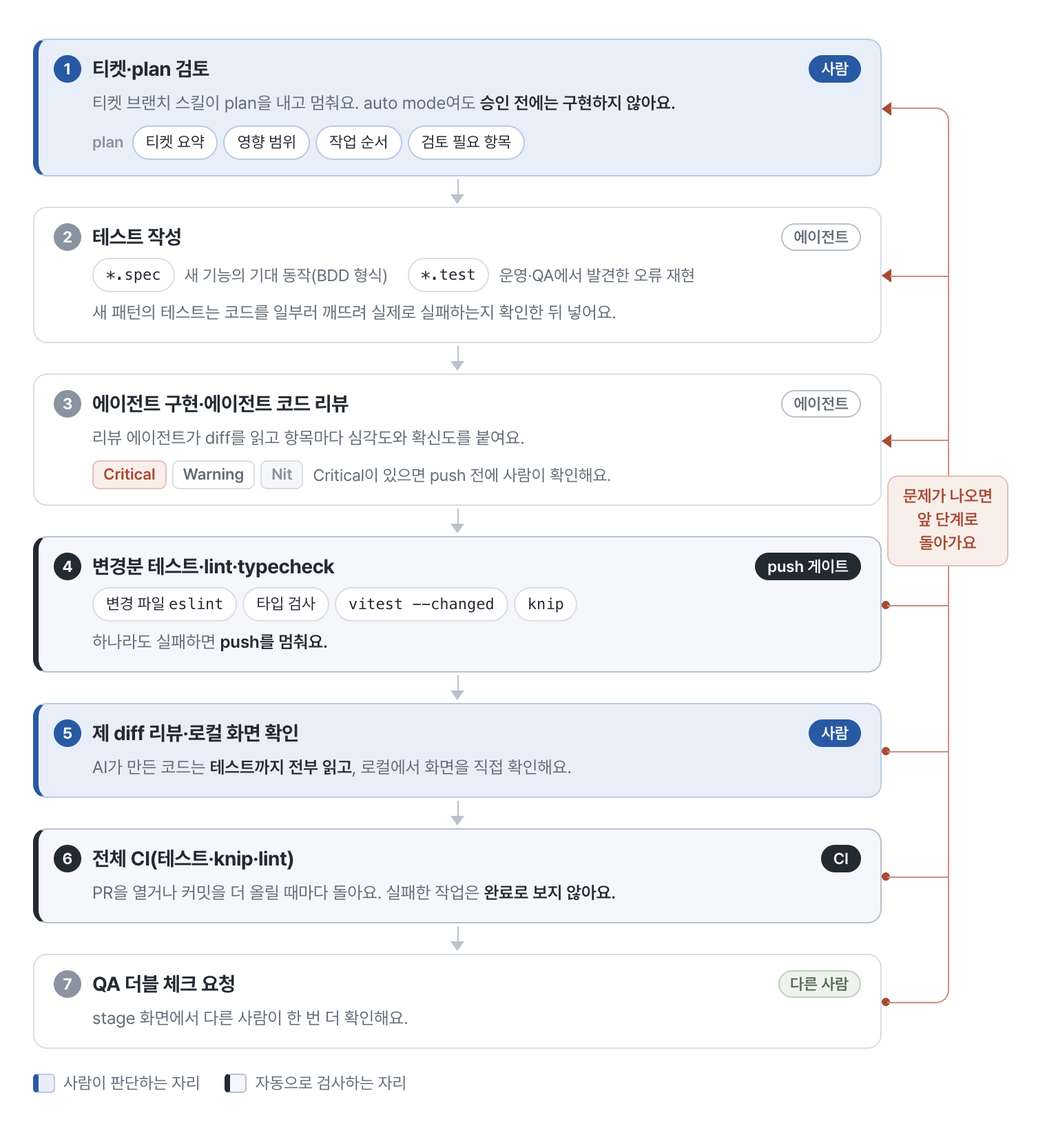
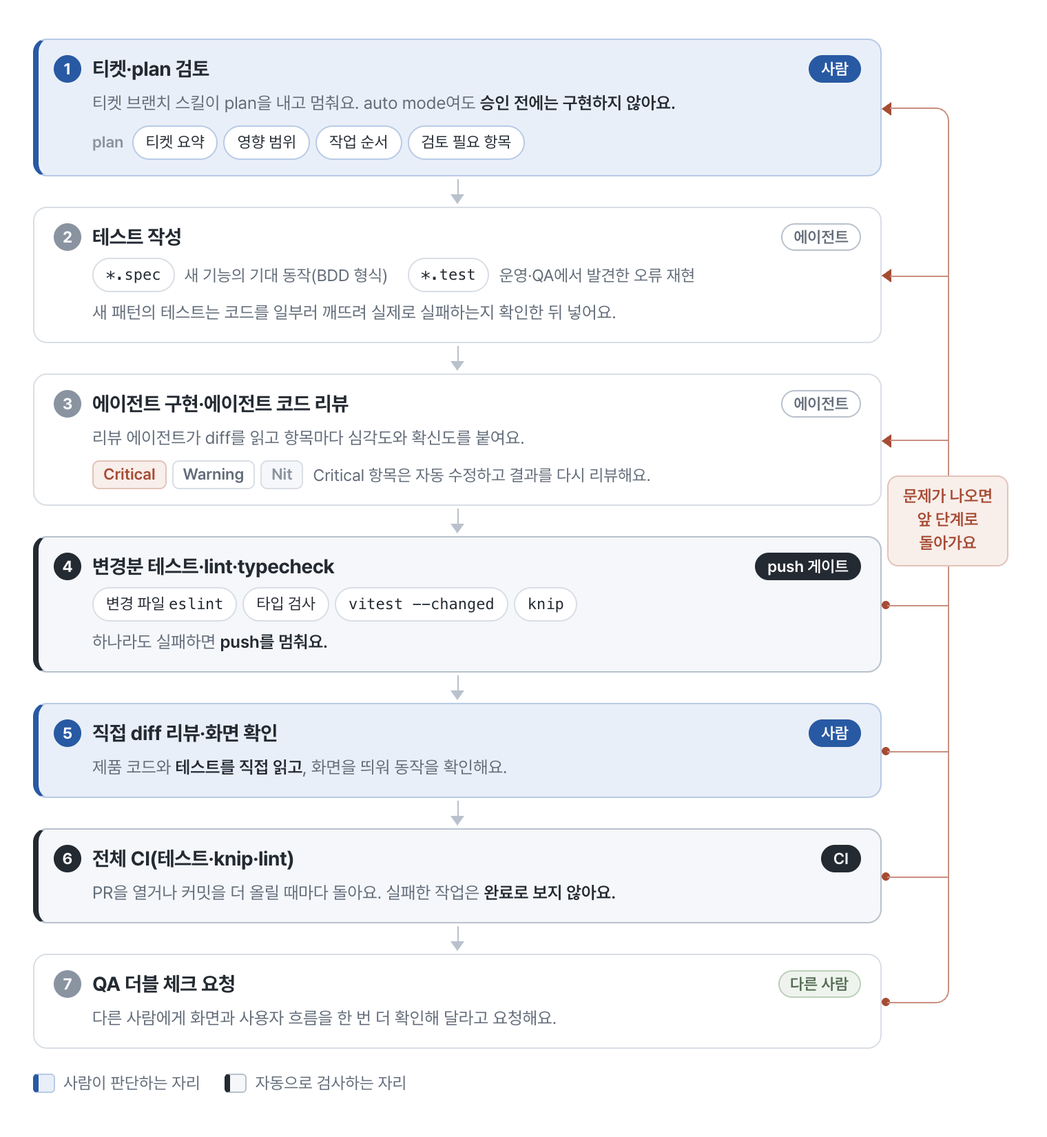
docs: clarify resume project context and simplify blog verification notes

diff --git a/blog/assets/figures/ai-workflow/src/01-flow.html b/blog/assets/figures/ai-workflow/src/01-flow.html
@@ -91,7 +91,7 @@
     <div class="hd"><span class="num">3</span><b>에이전트 구현·에이전트 코드 리뷰</b><span class="who agent">에이전트</span></div>
     <div class="bd">
       <p>리뷰 에이전트가 diff를 읽고 항목마다 심각도와 확신도를 붙여요.</p>
-      <div class="line"><span class="state no">Critical</span><span class="state">Warning</span><span class="state mute">Nit</span><span class="t">Critical이 있으면 push 전에 사람이 확인해요.</span></div>
+      <div class="line"><span class="state no">Critical</span><span class="state">Warning</span><span class="state mute">Nit</span><span class="t">Critical 항목은 자동 수정하고 결과를 다시 리뷰해요.</span></div>
     </div>
   </div>
   <div class="rl"><span class="ah"></span><span class="cn"></span></div>
@@ -112,9 +112,9 @@
 
   <!-- 5 -->
   <div class="step judge">
-    <div class="hd"><span class="num">5</span><b>제 diff 리뷰·로컬 화면 확인</b><span class="who me">사람</span></div>
+    <div class="hd"><span class="num">5</span><b>직접 diff 리뷰·화면 확인</b><span class="who me">사람</span></div>
     <div class="bd">
-      <p>AI가 만든 코드는 <b>테스트까지 전부 읽고</b>, 로컬에서 화면을 직접 확인해요.</p>
+      <p>제품 코드와 <b>테스트를 직접 읽고</b>, 화면을 띄워 동작을 확인해요.</p>
     </div>
   </div>
   <div class="rl"><span class="dot"></span><span class="cn from"></span></div>
@@ -136,7 +136,7 @@
   <div class="step">
     <div class="hd"><span class="num">7</span><b>QA 더블 체크 요청</b><span class="who other">다른 사람</span></div>
     <div class="bd">
-      <p>stage 화면에서 다른 사람이 한 번 더 확인해요.</p>
+      <p>다른 사람에게 화면과 사용자 흐름을 한 번 더 확인해 달라고 요청해요.</p>
     </div>
   </div>
   <div class="rl end"><span class="dot"></span><span class="cn"></span><svg class="arc" viewBox="0 0 11 11"><path d="M10.5 0 V1.5 A9 9 0 0 1 1.5 10.5 H0"/></svg></div>

diff --git a/blog/assets/figures/health-check/src/05-checkout-states.html b/blog/assets/figures/health-check/src/05-checkout-states.html
@@ -76,5 +76,5 @@
   <li><b>맡긴 값</b> · 꺼내면 맞든 틀리든 지워서, 성공한 신청의 주소·검사 선택이 다음 신청에 남지 않게 해요.</li>
 </ul>
 
-<p class="foot">stage에서 신청 폼 → 확인 시트 → 토스페이먼츠 결제창까지 진행한 화면과 결제 흐름 커밋을 바탕으로 그렸어요. 이 화면들을 확인할 때는 stage checkout이 운영 결제 키를 내려줘서 결제는 하지 않았어요.</p>
+<p class="foot">검진 신청과 결제 결과별 이동 경로를 정리했어요. 결제 실패나 승인 직후 환불은 신청 폼으로, 결과를 알 수 없는 경우는 예약 목록으로 돌아가요.</p>
 </body></html>

diff --git a/blog/assets/figures/health-check/src/04-pick-lock.html b/blog/assets/figures/health-check/src/04-pick-lock.html
@@ -60,5 +60,5 @@
   <div class="cmp new"><b>논의 뒤: 채운 그룹의 남은 칩 잠금</b>넘치는 선택은 화면이 막고, 선택 로직은 넣고 빼기만 해요. 디자인에 없던 비활성 칩 모양은 요청해서 받았어요.</div>
 </div>
 
-<p class="foot">stage의 복지몰 선택 검사 시트(390×844)에서 확인한 상태를 바탕으로 다시 그렸어요. 진행 표시(n/N)는 설명을 위해 더했고, 검사 항목은 예시예요.</p>
+<p class="foot">복지몰에서 확인한 선택 검사 시트의 동작이에요. 진행 표시(n/N)는 설명을 위해 더했고, 검사 항목은 예시예요.</p>
 </body></html>

diff --git a/blog/assets/figures/health-check/src/01-structure.html b/blog/assets/figures/health-check/src/01-structure.html
@@ -133,5 +133,5 @@
   <span><span class="app bo">Back-Office</span> 운영팀 관리 화면</span>
   <span><span class="app mall">복지몰</span> 사용자 화면</span>
 </div>
-<p class="foot">stage 테스트 데이터로 진행한 화면과 결제 흐름 커밋을 바탕으로 다시 그렸어요. 이때 검진 흐름은 결제창까지만 진행했어요.</p>
+<p class="foot">비급여 프로그램과 건강검진의 등록·조회·신청 흐름을 실제 화면과 구현을 바탕으로 정리했어요.</p>
 </body></html>

diff --git a/blog/assets/figures/health-check/src/02-composition.html b/blog/assets/figures/health-check/src/02-composition.html
@@ -104,5 +104,5 @@
   </div>
 </div>
 
-<p class="foot">stage 화면(Back-Office 프로그램 등록·상세, 병원 관리자 프로그램 상세, 복지몰 검진 상세·선택 검사 시트)의 필드와 상태를 옮겨 그렸어요. 검사 항목은 예시예요.</p>
+<p class="foot">Back-Office·병원 관리자·복지몰에서 같은 검진 구성을 어떻게 사용하는지 정리했어요. 검사 항목은 예시예요.</p>
 </body></html>

diff --git a/resumes/daangn/resume-daangn-moin-draft.md b/resumes/daangn/resume-daangn-moin-draft.md
@@ -45,40 +45,45 @@ AI 개발 workflow를 개선하며 반복해서 지적한 내용은 skills와 li
 
 #### 건강검진 서비스 내재화 | 2026.09 – 현재
 
-기존 건강검진은 아임웹에서 정보를 보고 전화로 문의하는 방식이었습니다. 제휴 병원이 세이프닥에서 검진 예약을 받기를 요청했지만, 검사항목 구성과 기업지원 코드, 예약금 결제는 기존 비급여 프로그램과 달라 별도 개발이 필요했습니다. 복지몰·병원 관리자·백오피스의 프론트엔드를 맡아 9월 9일부터 개발했고, 23일 운영 배포 후 30일 정식 오픈했습니다.
+건강검진은 아임웹에서 정보를 보고 전화로 문의해야 했고, 기존 복지몰과 병원 관리자에서는 검진 프로그램과 예약을 관리하기 어려웠습니다. 제휴 병원의 요청으로 검사항목 구성·기업지원 코드·예약금 결제를 세이프닥 안에서 처리하는 기능을 개발했습니다. 복지몰·병원 관리자·백오피스의 프론트엔드를 맡아 9월 9일부터 개발했고, 23일 운영 배포 후 30일 정식 오픈했습니다. 사용자는 복지몰에서 검진 정보를 보고 신청·결제를 진행하고, 병원과 운영팀은 관리자 서비스에서 프로그램·예약·결제내역을 관리할 수 있게 됐습니다.
 
 - **백오피스:** 검사항목을 등록하고 필수·선택 검사를 구성하는 기능을 만들었습니다. 기업지원 코드와 서류 확인, 결제내역 조회, 결제취소·환불 승인도 추가했습니다.
 - **병원 관리자:** 검진 프로그램 조회와 예약 관리를 추가했습니다. 건강검진만 운영하는 병원에는 기존 프로그램 등록·검수 메뉴를 숨기고, 병원이 직접 처리할 수 없는 예약금 결제취소는 요청 접수로 안내했습니다.
 - **복지몰:** 기존 프로그램 상세와 예약 신청·상세에 건강검진 기능을 추가했습니다. 검사 선택, 기업 검진 코드 입력, 토스페이먼츠 예약금 결제를 연결하고 사용자 부담금과 기업지원 내용을 구분해 보여줬습니다.
-- **검사항목 선택:** 정해진 수만큼 고르면 다음 그룹으로 넘어가자는 요청이 있었습니다. 이미 고른 항목을 수정할 때도 화면이 넘어가는 불편을 짚고 담당자와 논의했습니다. 선택 수를 채우면 고르지 않은 chip만 비활성화해 초과 선택을 막고, 기존 선택은 수정할 수 있게 했습니다. 빠져 있던 비활성 상태의 디자인도 요청했습니다.
+- **검사항목 선택:** 정해진 수만큼 고르면 다음 그룹으로 넘어가자는 요청이 있었습니다. 이미 고른 항목을 수정할 때도 화면이 넘어가는 불편을 짚고 담당자와 논의했습니다. 선택 수를 채우면 고르지 않은 chip만 비활성화하고, 바꾸려면 기존 선택을 해제하도록 했습니다. 초과 선택을 막으면서 사용자가 같은 그룹에서 선택을 수정할 수 있게 했고, 빠져 있던 비활성 상태의 디자인도 요청했습니다.
 - **일부만 저장됐을 때의 재시도:** 일괄 등록에서 일부 항목만 저장된 뒤 같은 폼을 다시 제출하면 중복 등록될 수 있었습니다. 요청이 성공하거나 실패한 뒤 서버 목록을 다시 받아, 이미 저장된 항목의 ID를 폼에 반영했습니다.
 - **결제 실패 후 입력 복원:** 전역 상태를 남기는 Zustand persist 대신 결제 시도별 `orderId`와 입력값을 `sessionStorage`에 저장했습니다. 돌아온 주문이 같은지 확인하고, 현재 Zod 스키마를 통과한 값만 한 번 복원합니다. 결제창에서 실패로 돌아왔을 때 입력이 복원되는지, 승인 요청이 실패하면 예약 목록으로 이동하는지 dev API 서버 E2E로 확인했습니다.
 - 검진 구성 수정이 거절됐을 때, 조회 응답에 삭제된 검사항목이 포함된 것을 찾아 백엔드에 전달했습니다. null을 허용하는 필드와 요청값을 보내는 방식도 dev API 서버에서 확인하며 맞췄습니다.
 
 [건강검진 개발 과정](https://jingeon27.tistory.com/34)
 
-#### 모바일 리뷰 개선과 WebView | 2025.06 – 2026.09
+#### 모바일 리뷰 작성 개선 | 2025.06 – 2026.09
 
 모바일로 리뷰를 직접 작성하다 키패드가 시술 목록을 가리고, 여러 항목을 골라야 하는데 하나만 고르면 닫히며, 선택한 항목도 잘 보이지 않는 문제를 발견했습니다. 2025년 6월 Jira에 정리해 PO에게 공유했습니다.
 
-- 기획·디자인 담당자가 정한 복수 선택·체크·chip UI를 구현해 7월 10일 운영에 반영했습니다. 이후 디자인 시스템 시안에 맞춰 Bottom Sheet를 적용하고 8월 7일 배포했습니다. 처음 불편을 발견하고 개선한 시점은 Amplitude 도입 전입니다.
+- 발견한 불편을 반영해 기획·디자인 담당자가 정한 복수 선택·체크·chip UI를 구현하고 7월 10일 운영에 반영했습니다. 여러 항목을 이어서 선택하고, 고른 항목을 확인할 수 있도록 바꿨습니다. 이후 디자인 시스템 시안에 맞춰 Bottom Sheet를 적용하고 8월 7일 배포했습니다.
 - 기존 Bottom Sheet는 `header`·`content`·`button`을 함수 인자로 받아, 본문에서 고른 값을 하단 버튼과 공유하기 어려웠습니다. Compound Components와 overlay-kit으로 바꿔 본문과 버튼이 같은 RHF 폼 안에서 동작하도록 했습니다. 시트 안에서 고른 값은 ‘확인’을 눌러야 바깥 폼에 반영되게 했습니다.
-- WebView에서 동작하지 않던 `tel:` 상담 버튼은 기존 네이티브 브릿지로 외부 링크를 열도록 연결했습니다. 외부 예약 사이트 이동을 개발할 때는 뒤로 가기가 WebView 전체를 닫는 문제를 배포 전에 확인했습니다. 외부 사이트 열기는 브릿지를, 웹 내부 뒤로 가기는 웹 라우터를 사용하도록 구분했습니다.
+
+#### WebView의 상담·외부 예약 이동 | 2026.06 – 09
+
+복지몰의 전화상담과 외부 예약 사이트 이동은 앱 안의 WebView에서도 동작해야 했습니다. `tel:` 상담 버튼이 열리지 않는 문제는 기존 네이티브 브릿지로 외부 링크를 열도록 연결해 해결했습니다. 외부 예약 사이트 이동을 개발할 때는 뒤로 가기가 WebView 전체를 닫는 문제를 배포 전에 확인했습니다. 외부 사이트 열기는 브릿지를, 웹 내부 뒤로 가기는 웹 라우터를 사용하도록 구분해 복지몰 안의 탐색을 이어갈 수 있게 했습니다.
 
 #### A/B 테스트 환경 구축과 실험 참여 | 2025.07 – 현재
 
-Amplitude 기반 A/B 테스트 환경을 구축했습니다. PM이 주도한 검색·병원 상세·프로그램 목록·예약신청 버튼 등의 실험에서 화면 구현과 사용자 행동 측정을 맡았습니다.
+검색·병원 상세·프로그램 목록·예약신청 버튼의 변경을 비교할 수 있도록 Amplitude 기반 A/B 테스트 환경을 구축했습니다. PM이 주도한 실험에서 화면 구현과 사용자 행동 측정을 맡아, 진입 위치와 선택·이탈 과정을 확인할 수 있게 했습니다.
 
 - 검색·상세·예약·쿠폰 화면의 이벤트 140개 이상을 새로 붙이거나 고쳤습니다. 상세에서 예약·상담 버튼을 눌렀는지, 예약 중 날짜·시간을 고르다 나갔는지 확인할 수 있도록 이벤트를 보내는 시점과 속성을 맞췄습니다.
 - **전화상담 실험 (2026.06 – 07):** PM이 주도한 실험에서 플로팅 버튼·하단 내비·말풍선으로 상담에 들어갈 수 있게 만들고, 클릭 이벤트의 `source`로 진입 위치를 구분했습니다. 고객센터 번호를 병원 번호로 오해하는 경우가 있어 상담시간을 안내했습니다. 실험 결과가 좋지 않아 전화상담이 종료된 뒤, 7월 27일 관련 코드를 정리하고 채팅상담으로 되돌렸습니다.
 - **룰렛 이벤트 (이벤트 기간: 2026.08.04 – 08.11):** 진료과 선택 → 룰렛 → 당첨 → 쿠폰함·예약·공유 흐름을 구현하고 이벤트 7개를 연결했습니다. 이벤트 종료 후 Amplitude의 페이지 방문 이벤트를 확인해 더 이상 방문하는 사용자가 없다고 판단하고, 10월 7일 관련 코드를 제거했습니다.
 - 신규 가입자의 UTM이 기록되지 않아 저장 코드를 추가했다가 Amplitude 설정을 더 살펴봤습니다. unexpected로 분류된 속성을 expected로 바꾸면 해결되는 것을 확인해 PO에게 공유했습니다. 추가한 코드는 운영 배포 전에 되돌렸습니다.
 
-#### SSR·Streaming과 데이터 조회 | 2026.04 – 현재
+#### 복지몰·관리자 서비스의 SSR·데이터 조회 개선 | 2026.04 – 현재
 
 입사 당시에는 서버 컴포넌트에서 `ensureQuery`로 조회한 결과를 render props로 전달하는 구조가 쓰이고 있었습니다. props로 받은 값은 클라이언트에서 Query 캐시를 무효화해도 갱신되지 않았습니다. 조회 조건만 바꿀 때도 `router.push`·`router.replace`로 서버의 렌더링 결과를 갱신하는 방식에 의존했습니다.
 
-데이터 조회 전반을 TanStack Query prefetch·hydration으로 전환했습니다. 서버는 초기 데이터를 준비하고, 화면은 `useQuery`·`useSuspenseQuery`로 캐시를 구독해 이후 조회·갱신·무효화를 클라이언트에서도 처리하도록 했습니다. 같은 경로에서 클라이언트의 조회 조건만 바뀌는 경우에는 History API로 URL을 갱신해 RSC 재요청 없이 처리하도록 구분했습니다.
+데이터 조회 전반을 TanStack Query prefetch·hydration으로 전환했습니다. 서버는 초기 데이터를 준비하고, 화면은 `useQuery`·`useSuspenseQuery`로 같은 캐시를 구독합니다. 초기 렌더링을 유지하면서 이후 조회·갱신·무효화를 클라이언트에서도 처리할 수 있게 됐습니다. 같은 경로에서 클라이언트의 조회 조건만 바뀌는 경우에는 History API로 URL을 갱신해 RSC 재요청 없이 처리하도록 구분했습니다.
+
+#### Next.js 라우팅·캐시 오류 대응 | 2026.04 – 현재
 
 - 이미 인증한 사용자를 로그인·본인인증 화면에서 되돌릴 때 앱이 멈추는 오류를 Next.js 라우터 소스까지 추적했습니다. 서버 컴포넌트의 `redirect()`를 처리하면서 `AppRouter`의 훅 호출 순서가 어긋나는 것을 확인했습니다. 인증 확인과 리다이렉트를 렌더 전 Next.js proxy로 옮겼습니다.
 - 관리자 검색 오류는 개발 서버와 jsdom 테스트에 나타나지 않아 프로덕션 빌드로 재현했습니다. 목록 7개 중 6개에서 확인하고 Next.js의 라우터 캐시 이슈까지 찾았습니다. 클라이언트에서 목록을 조회하는 화면은 같은 경로의 검색 조건만 History API로 바꿔 RSC 재요청을 피했습니다. 수정 뒤 9월 28일까지 같은 증상의 재보고는 없었습니다.
@@ -88,22 +93,32 @@ Amplitude 기반 A/B 테스트 환경을 구축했습니다. PM이 주도한 검
 
 [Next.js 검색 회귀 대응](https://jingeon27.tistory.com/27)
 
-#### 폼·타입 설계와 코드 구조 | 2025.06 – 현재
+#### 예약 폼의 상태 관리 개선 | 2025.06
 
-하나의 공통 컴포넌트에 화면별 조건이 쌓여, 한 화면을 고치면 다른 화면도 함께 확인해야 했습니다. 각 화면이 필요한 UI를 직접 조합하도록 바꾸고, 데이터를 가져오는 코드와 UI를 나눴습니다.
+예약 화면의 가족·날짜 값이 Query 캐시·Zustand·로컬 상태에 나뉘어 있어, 날짜를 고른 뒤 가족을 추가하면 선택한 일시가 어긋났습니다. 서버 목록은 Query, 작성 중인 값은 React Hook Form, 제출 전 검증은 Zod로 역할을 나누고, 가족 목록이 바뀌면 폼의 예약 대상과 일시를 함께 맞추도록 했습니다. 동기화 로직을 훅과 하위 컴포넌트로 분리해 519줄이던 예약 대상 선택 컴포넌트를 55줄로 줄였습니다.
+
+[예약 폼 리팩터링](https://jingeon27.tistory.com/11)
+
+#### 관리자 서비스의 검색·폼·화면 구조 표준화 | 2026.04 – 현재
+
+프로그램·예약·정산 등 관리자 화면이 늘면서, 공통 컴포넌트에 화면별 예외 조건이 쌓이고 폼·조회·오류 처리 방식도 달라졌습니다. 필요한 UI를 화면에서 조합하도록 바꾸고, 필드 타입·조회 조건·복구 범위를 공통 기준에 맞췄습니다.
 
 - 검색 화면 27개를 `createSearchFilter(schema)`로 전환해 각 화면이 필요한 필터를 조합하도록 했습니다. 화면별 JSX가 일부 반복되더라도 공통 컴포넌트에 예외 조건을 계속 넣지 않기로 했습니다. URL 해석, 폼 필드, API 조회 조건은 같은 Zod 스키마를 사용하고 타입은 `z.infer`로 만듭니다.
 - Ant Design Form은 중첩 필드명이 틀려도 컴파일되는 문제가 있어 `createTypedForm<T>`로 보완했습니다. 재귀 조건부 타입과 `infer`로 필드 경로에 맞는 값 타입을 계산합니다. 값을 읽고 쓰거나 구독할 때도 필드명과 값 타입을 검사하며, 필요한 타입 단언은 래퍼 내부에만 뒀습니다.
 - Zod 검증이 실패했을 때는 값의 출처에 따라 다르게 처리합니다. 기존 API 응답은 불일치를 Sentry로 트래킹하고 원본을 통과시키며 스키마를 맞춥니다. URL은 잘못된 필드만 기본값으로 되돌리고, 결제 후 복원할 입력값은 검증에 실패하면 버립니다. 개발 환경에서 보지 못한 null 응답도 Sentry로 트래킹해 스키마를 고쳤습니다.
-- 예약 화면의 가족·날짜 값이 Query 캐시·Zustand·로컬 상태에 나뉘어 있어, 가족을 추가하면 날짜 선택이 어긋났습니다. 서버 목록은 Query, 작성 중인 값은 React Hook Form, 제출 전 검증은 Zod로 나눠 문제를 고쳤습니다. 동기화 로직을 훅과 하위 컴포넌트로 분리해 519줄이던 예약 대상 선택 컴포넌트를 55줄로 줄였습니다.
-- FSD에서는 여러 기능에서 재사용할 것 같다는 이유로 `entities`에 코드를 두던 기준을 바꿨습니다. 서버 모델·API 코드는 `features`, 화면별 조합은 `pages`, 도메인과 무관한 공용 UI는 `shared`로 나눴습니다. 복지몰에서 화면끼리 직접 참조하던 62건을 정리하고 새 위반은 lint error로 막았습니다.
 - 조회 하나가 실패해 앱 전체가 멈추지 않도록, 따로 복구할 수 있는 기능마다 Error Boundary를 적용했습니다. 백오피스 라우트 30개에서 데이터 조회와 화면 구성을 같은 패턴으로 맞추고 재시도를 테스트했습니다.
 
-[예약 폼 리팩터링](https://jingeon27.tistory.com/11) · [공통화 기준](https://jingeon27.tistory.com/26) · [FSD 구조 변경](https://jingeon27.tistory.com/23) · [Zod 검증 경계](https://jingeon27.tistory.com/32)
+[공통화 기준](https://jingeon27.tistory.com/26) · [Zod 검증 경계](https://jingeon27.tistory.com/32)
+
+#### 복지몰·관리자 서비스의 FSD 구조 정리 | 2026.09
+
+여러 기능에서 재사용할 것 같다는 이유로 `entities`에 코드를 두다 보니 `features`와의 구분이 모호했습니다. 서버 모델·API와 연결된 코드는 `features`, 화면별 조합은 `pages`, 도메인과 무관한 공용 UI는 `shared`로 기준을 다시 정했습니다. 복지몰에서 화면끼리 직접 참조하던 62건을 정리하고 새 위반은 lint error로 막았습니다. 파일을 옮기는 작업과 함께 의존 방향을 검사해 같은 구조가 다시 생기지 않도록 했습니다.
+
+[FSD 구조 변경](https://jingeon27.tistory.com/23)
 
 #### 정산 관리 리팩터링 | 2026.04 – 현재
 
-엑셀 등으로 관리하던 정산을 내부 예약 DB와 연결하는 기능입니다. 초기 구현을 인수한 뒤 병원 관리자·백오피스의 요구사항과 배포 전 개선 요청을 반영하며 구조를 정리했습니다.
+엑셀 등으로 관리하던 정산을 내부 예약 DB와 연결하는 기능입니다. 초기 구현을 인수했을 때는 긴 파일에 여러 처리 흐름이 섞여 있고, 운영에 필요한 동작도 보완해야 했습니다. 병원 관리자·백오피스의 요구사항과 배포 전 개선 요청을 반영하면서 구조를 정리해, 예약 정보와 정산 내역을 연결해 관리하는 기능을 배포했습니다.
 
 - 1,000줄이 넘는 정산 화면에 조회·표·선택·편집·정산 처리가 섞여 있었습니다. 책임별로 컴포넌트와 훅을 나누고, 함께 바뀌는 코드는 같은 기능 안에 모았습니다. 화면 조합은 `pages`, 서버 계약과 변경 로직은 `features`에 두도록 파일 위치와 의존성을 정리했습니다.
 - `useImperativeHandle`과 ref로 열던 모달은 대상 데이터와 `open`·`onCancel`을 props로 받도록 바꿨습니다. 다른 기능에서 라우트 내부의 모달을 직접 가져다 쓰던 코드도 정리했습니다.
@@ -111,7 +126,7 @@ Amplitude 기반 A/B 테스트 환경을 구축했습니다. PM이 주도한 검
 
 #### Sentry 도입과 운영 오류 추적 | 2026.08 – 현재
 
-복지몰의 브라우저·서버·Edge 오류를 한곳에서 추적하도록 Sentry를 도입했습니다. 8월 19일부터 구현해 27일 운영에 배포했습니다.
+간헐적인 오류의 발생 위치와 영향받은 사용자를 파악하기 위해, 복지몰의 브라우저·서버·Edge 오류를 한곳에서 추적하도록 Sentry를 도입했습니다. 8월 19일부터 구현해 27일 운영에 배포했고, 수집된 오류에서 사용자의 앱이 멈추거나 로그인 상태가 끊기는 원인을 찾아 수정했습니다.
 
 - 화면이 뜨지 않는 오류, 작업을 막는 오류, 재시도할 수 있는 실패를 구분해 레벨을 정했습니다. 의미 없는 전송을 줄이는 차단 게이트를 만들고, API 처리 코드와 Error Boundary가 같은 오류를 두 번 보내지 않게 했습니다.
 - SDK 소스를 읽고 오류 기록과 breadcrumb·transaction·span에 담기는 값을 확인해 의료·인증 정보를 제거했습니다. 배포 버전별로 원본 코드를 확인할 수 있도록 release와 브라우저 소스맵을 연결하고 Sentry MCP를 붙였습니다. LCP·FCP·TTFB 전송은 브라우저 E2E로 확인했습니다.
@@ -122,7 +137,7 @@ Amplitude 기반 A/B 테스트 환경을 구축했습니다. PM이 주도한 검
 
 #### 테스트 도입 | 2026.07 – 현재
 
-2026년 7월부터 테스트 코드를 도입했습니다. 함수·스키마, UI·폼, API 요청·응답, 브라우저 흐름으로 검증 범위를 나누고, 기능 개발과 오류 대응을 거치며 작성 기준과 검증 방법을 보완했습니다.
+예약·프로그램 관리·정산의 변경에서 정상 동작과 예외 처리를 반복해서 확인할 수 있도록, 2026년 7월부터 테스트 코드를 도입했습니다. 함수·스키마, UI·폼, API 요청·응답, 브라우저 흐름으로 검증 범위를 나눴습니다. 새 기능의 요구사항과 운영·QA 오류를 테스트로 남기고, 실제 제출 경로와 API 계약까지 확인하도록 기준을 보완했습니다.
 
 - 실제 Drawer를 열고 제출까지 테스트합니다. 서버로 보내야 할 기대값은 제품의 변환 함수를 호출하지 않고 따로 작성해, 제품 코드와 테스트가 같은 실수를 하지 않게 했습니다.
 - 순수 함수·스키마는 Vitest, UI·폼은 React Testing Library, 브라우저 흐름은 Playwright로 검증합니다. dev API 서버로 먼저 확인하고 서버에서 만들기 어려운 조건은 MSW로 재현합니다.
@@ -134,7 +149,7 @@ Amplitude 기반 A/B 테스트 환경을 구축했습니다. PM이 주도한 검
 
 #### AI 개발 workflow | 2026.04 – 현재
 
-4월에는 생성된 코드를 모두 검토하고, 의도와 다른 구현이 나오면 skills를 보완했습니다. 파일을 어디에 둘지, 상태를 어디에서 관리할지가 모호하면 에이전트의 구현도 매번 달라졌습니다. Compound Engineering 방식으로 판단을 skills에 쌓고, FSD 구조와 lint rule을 저장소에 맞게 바꿨습니다. 7월에는 테스트 체계를 더하고 8월부터 운영 오류를 추적했습니다. 모델 성능이 좋아지고 skills가 쌓이면서 만족스러운 구현이 늘어, 에이전트에 맡기는 범위를 조금씩 넓혔습니다.
+여러 제품의 프론트엔드를 혼자 담당하면서 AI에 구현을 맡겼지만, 구조와 검증 기준이 모호하면 결과도 매번 달라졌습니다. 4월부터 생성된 코드를 검토하고, 의도와 다른 구현이 나오면 Compound Engineering 방식으로 skills를 보완했습니다. FSD 구조와 lint rule을 저장소에 맞게 바꾸고, 7월에는 테스트를 더해 기대 동작을 확인하도록 했습니다. 8월부터는 운영 오류를 추적해 검증에서 놓친 경우도 다음 작업에 반영했습니다. 모델 성능이 좋아지고 skills가 쌓이면서 직접 코드를 고치지 않아도 만족스러운 구현이 나오는 경우가 늘어, 에이전트에 맡기는 범위를 조금씩 넓혔습니다.
 
 지금은 아래 순서로 작업하며 문제가 나오면 앞 단계로 돌아갑니다.
 
@@ -160,6 +175,8 @@ Amplitude 기반 A/B 테스트 환경을 구축했습니다. PM이 주도한 검
 일정 조율 서비스 ‘되는시간’을 운영하는 왓타임에서 채용 SaaS RoundHR을 개발했습니다. 2023년 후반에 개발을 시작한 제품으로, 합류 당시에는 시장성을 확인하며 기능을 늘리고 있었습니다. 프론트엔드·백엔드 개발자, 디자이너와 협업하며 채용 관리 웹, 채용 담당자용 웹, 랜딩, 채용 사이트의 지원자 데이터를 가져오는 Electron 앱을 개발했습니다. 프로젝트는 pnpm·Turborepo 모노레포로 관리했습니다.
 
 #### 채용·평가 기능과 면접 입력 | 2024.01 – 10
+
+시장성을 확인하며 기능을 늘리던 RoundHR에서 채용 담당자가 공고·지원·평가 과정을 관리하는 화면을 개발했습니다. 채용 관리 웹과 채용 담당자용 웹, 랜딩의 프론트엔드를 맡고 백엔드 개발자·디자이너와 요구사항을 맞췄습니다.
 
 - 채용 페이지와 지원서 설정, 메일·면접 알림 템플릿의 작성·미리보기를 개발했습니다. 지원·서류·면접 단계의 자동화 규칙과 평가 템플릿·척도 설정도 만들었습니다. 채용 담당자용 웹에는 서류·면접 평가와 온보딩 안내를 추가했습니다.
 - 면접 템플릿 입력을 시간 유형·장소·참여자 확인·메일 본문의 네 단계로 나눴습니다. `useFunnel`로 단계 이동과 검증을 처리하고, 작성 중 나갔다 돌아와도 이어 쓸 수 있도록 `sessionStorage`에 입력 내용을 저장했습니다.
@@ -188,7 +205,7 @@ NestJS 도입을 시도한 뒤, Electron main 프로세스에는 무겁다는 CT
 
 더 많은 사용자가 이용하고 행동 데이터가 충분히 쌓이는 환경에서, 개선 효과를 지표로 확인하며 제품을 만들어 가고 싶습니다. 월간 활성 사용자 1,000만 명을 넘긴 당근모임에서 제가 만든 변화가 모임 참여와 이후 활동에 어떤 영향을 주는지 동료들과 확인하고 싶습니다. 사용자 의견을 듣고 직접 모임에 참여하며 실험하는 팀의 방식에도 끌렸습니다.
 
-작은 팀에서 기능을 늘리고 기술부채를 줄이며 개발·검증 기준을 다듬어 온 경험으로, 모임팀의 제품 개선과 안정적인 운영에 기여하고 싶습니다. 많은 트래픽을 다루고 자체 SSR 서버를 직접 운영하며 성능과 안정성을 살피는 경험에도 관심이 있습니다. 동료들과 코드와 설계를 검토하며 제품을 키우고, 저도 엔지니어로서 경험의 폭을 넓혀 가고 싶습니다.
+사용자가 관심 있는 모임을 찾고, 안심하고 첫 참여를 결정하며, 다음 만남까지 이어갈 수 있도록 돕고 싶습니다. 리뷰와 예약 흐름에서 직접 발견한 불편을 담당자와 논의해 개선했던 경험으로 기여하고, 동료들과 사용자 의견과 행동을 살펴 다음 개선을 찾고 싶습니다. 많은 사용자가 이용하는 제품의 성능과 안정성을 살피고 자체 SSR 서버를 운영하는 경험을 쌓으며, 제품과 함께 저도 엔지니어로서 성장하고 싶습니다.
 
 [당근의 AI 활용과 협업 사례](https://medium.com/daangn/프론트엔드와-백엔드를-한-팀으로-합치면-어떤-일이-일어날까-f8b32edb2eb1) · [커뮤니티 시스템 소개](https://medium.com/daangn/천만-mau를-지탱하는-커뮤니티-시스템을-소개해요-090fb4021e20)
 

diff --git a/blog/revised/post-new-health-check-program.md b/blog/revised/post-new-health-check-program.md
@@ -2,10 +2,12 @@
 
 <div class="note note-summary">
   <strong>이 글에서 다루는 것</strong>
-  <p>외부 사이트와 전화 문의로 따로 돌던 건강검진을 세이프닥의 프로그램 흐름 안으로 들인 과정을 다뤄요. 비급여 프로그램은 파트너가 올리고 운영팀이 검수하지만, 검진 프로그램은 내부 운영팀이 Back-Office에서 직접 올리고 검수 단계가 없어요. 파트너는 병원 관리자에서 조회만 해요. 보여 줄 정보와 신청 뒤에 일어나는 일도 비급여 프로그램과 달랐어요. 그래서 검진 구성은 한 벌로 저장해 네 화면이 같은 값을 읽게 하고, 복지몰의 상세와 신청 폼은 조건을 얹는 대신 화면째 나눴어요. 선택 검사 시트의 동작은 담당자와 논의해 바꿨고, 결제는 실패하고 돌아오는 경로부터 정했어요. 사례는 관리자 서비스 모노레포(Back-Office·병원 관리자)와 복지몰 두 저장소에 걸쳐 있어요. 그림은 stage 테스트 데이터로 흐름을 진행한 화면을 바탕으로 다시 그린 것이고, 코드는 설명을 위해 줄였어요.</p>
+  <p>외부 사이트와 전화 문의로 따로 돌던 건강검진을 복지몰·병원 관리자·Back-Office 안에서 처리하도록 개발한 과정을 적었어요. 검진 구성은 여러 화면이 같은 값을 읽게 하고, 비급여와 다른 상세·신청 흐름은 화면을 나눴어요. 선택 검사와 결제 실패 후 돌아오는 동작도 함께 다뤄요. 그림은 직접 확인한 화면을 바탕으로 다시 그렸고, 코드는 설명에 필요한 부분만 남겼어요.</p>
 </div>
 
 세이프닥에서 건강검진은 프로그램 흐름 밖에 있었어요. 사용자는 외부 사이트에서 검진 정보를 본 뒤 전화로 문의했어요. 한 제휴 파트너가 검진 예약을 세이프닥 안에서 받고 싶다고 요청하면서 검진을 이 흐름 안으로 들이게 됐어요.
+
+건강검진 예약을 정식으로 오픈한 뒤 개발 과정을 돌아보며 쓴 글이에요. 이제 사용자는 복지몰에서 검진을 살펴보고 신청·결제할 수 있고, 병원과 운영팀도 관리자 서비스에서 프로그램과 예약을 관리해요.
 
 세이프닥은 제휴 병원과 제휴 기업을 함께 늘려야 하는 서비스예요. 사용자의 대부분은 제휴 기업을 통해 들어오고, 예약할 수 있는 병원이 부족하면 원하는 지역이나 검진을 찾기 어려워요. 반대로 병원 입장에서는 예약이 적으면 입점할 이유가 약해져요. 화면을 개선하는 것만으로 이 문제를 해결했다고 말할 수는 없어요. 제가 맡은 건강검진 작업은 이미 제휴한 병원의 검진을 복지몰 안에서 살펴보고 신청할 수 있게 만든 일이에요.
 
@@ -30,7 +32,7 @@
 - 메뉴와 목록의 읽기 전용 모드는 진료과가 건강검진뿐인 파트너에게만 켜요. 이런 파트너는 검수를 요청할 프로그램이 아예 없으니까요.
 - 검진과 다른 진료과를 함께 가진 파트너에게는 신규 등록과 예전 임시저장 불러오기, 반려 건 재요청이 모두 같은 폼을 거쳐요. 그래서 폼의 카테고리 검증이 건강검진 진료과 제출을 거절하게 했어요. 공용 캐스케이더에 한 곳만 쓰는 prop을 늘리지 않으면서, 이미 저장된 임시저장·반려 건에 실린 건강검진 진료과까지 한 자리에서 잡으려는 선택이었어요.
 
-건강검진인지를 가르는 기준도 한 곳으로 모았어요. 판별이 진료과 이름에서 진료과 id로 바뀌면서 `===` 비교가 여섯 곳에 흩어져 있었거든요. 공용 패키지에 `isHealthCheckDepartment` 하나를 두고, 그 id가 dev·stage·운영에서 같은지는 세 환경의 진료과 목록 API로 확인해 상수 옆에 적어 뒀어요.
+건강검진인지를 가르는 기준도 한 곳으로 모았어요. 판별이 진료과 이름에서 진료과 id로 바뀌면서 `===` 비교가 여섯 곳에 흩어져 있었거든요. 공용 패키지에 `isHealthCheckDepartment` 하나를 두고, 배포 환경이 달라도 같은 id를 쓰는지 진료과 목록 API로 확인해 상수 옆에 적어 뒀어요.
 
 ## 검진 구성은 한 벌로 저장하고 네 화면이 읽어요
 
@@ -58,7 +60,7 @@ export function getItemIdsTakenByOtherGroups(values: CompositionValues, owner: '
 
 진료과를 검진에서 다른 과로 옮기는 수정에서는 저장 순서가 문제가 됐어요. 프로그램 저장은 성공하고 구성을 비우는 요청만 실패하면, 다시 불러온 상세는 이미 검진이 아니라서 구성 조회가 꺼지고, 재시도해도 남은 구성을 비우지 않은 채 창이 닫혔어요. 실패한 비우기를 기억하는 저장 훅 하나로 등록·수정 모달과 프로그램 상세가 같은 순서를 쓰게 하고, 재시도하는 흐름을 테스트로 남겼어요.
 
-기록에 남지 않은 일도 하나 있었어요. 검진 구성 수정이 `HEALTH_CHECK_ITEM_UNAVAILABLE`로 거절돼서 원인을 따라가 보니, 이미 삭제된 검사 항목이 조회 응답에 섞여 있었어요. 화면에서 그 항목을 걸러 내 덮지 않고, 응답을 그대로 백엔드 담당자에게 전달했어요.
+검진 구성 수정이 `HEALTH_CHECK_ITEM_UNAVAILABLE`로 거절된 적도 있었어요. 원인을 따라가 보니 이미 삭제된 검사 항목이 조회 응답에 섞여 있었어요. 화면에서 그 항목을 걸러 내 덮지 않고, 응답을 그대로 백엔드 담당자에게 전달했어요.
 
 ## 상세 화면은 조건을 얹지 않고 둘로 나눴어요
 
@@ -134,20 +136,15 @@ const isFull = selected.length >= group.pickCount;
 
 토스페이먼츠 결제창은 모바일에서 결과를 리다이렉트로만 돌려줘요. 결제창을 다녀오면 페이지가 새로 열리고 메모리 상태는 남지 않아요. 그래서 폼 값을 결제 시도의 `orderId`와 함께 `sessionStorage`에 맡기고, 돌아왔을 때 같은 시도이면서 현재 폼 스키마를 통과한 값만 한 번 되살려요. 꺼내면 맞든 틀리든 지워서, 성공한 신청의 주소와 검사 선택이 다음 신청에 남지 않게 했어요.
 
-stage에서 끝까지 결제해 보다가 예상하지 못한 결과도 만났어요. 결제 승인 응답이 성공인데 상태가 `REFUNDED`였어요. 이 결제에서 허용하는 수단은 카드와 간편결제뿐인데, 결제창에는 퀵계좌이체가 기본으로 선택돼 있었어요. 그 수단으로 내면 서버가 승인 직후 전액 환불하고 예약을 만들지 않았죠. 결제창에 어떤 수단을 보여 줄지는 SDK 옵션이 아니라 결제사 관리 화면의 위젯 설정이 정해서, 프론트엔드에서 고칠 수 있는 건 그 결과를 받는 화면이었어요. 예약도 청구도 남지 않았는데 "예약 목록에서 확인"으로 보내던 것을, 결제 실패와 같게 신청 화면으로 돌려보내 입력을 되살리고 사유를 안내하게 바꿨어요. 결과를 알 수 없는 경우만 예약 목록으로 보내요.
+결제 흐름을 확인하다 예상하지 못한 결과도 만났어요. 결제 승인 응답이 성공인데 상태가 `REFUNDED`였어요. 이 결제에서 허용하는 수단은 카드와 간편결제뿐인데, 결제창에는 퀵계좌이체가 기본으로 선택돼 있었어요. 그 수단으로 내면 서버가 승인 직후 전액 환불하고 예약을 만들지 않았죠. 결제창에 어떤 수단을 보여 줄지는 SDK 옵션이 아니라 결제사 관리 화면의 위젯 설정이 정해서, 프론트엔드에서 고칠 수 있는 건 그 결과를 받는 화면이었어요. 예약도 청구도 남지 않았는데 "예약 목록에서 확인"으로 보내던 것을, 결제 실패와 같게 신청 화면으로 돌려보내 입력을 되살리고 사유를 안내하게 바꿨어요. 결과를 알 수 없는 경우만 예약 목록으로 보내요.
 
 중복 신청도 막았어요. checkout이 끝난 뒤에도 결제 SDK를 기다리는 동안(최대 10초) 신청 버튼이 다시 열려서, 한 번 더 누르면 주문이 하나 더 생겼거든요. 주문 생성부터 결제창이 뜨기까지를 한 mutation으로 묶고 그동안 버튼을 잠갔어요. 확인 시트가 뜨기 전 연타로 시트가 둘 열리는 경우는 따로 플래그를 만들지 않고, 그동안 켜져 있는 폼 제출 상태로 막았어요.
 
-## 정식으로 열기 전에 테스트와 stage로 확인했어요
+## 선택·저장·결제 흐름을 테스트했어요
 
 - 복지몰: 선택 검사 잠금, 신청 폼 스키마(필수 약관 셋이 모두 켜져야 통과), 결제창 인계 값의 저장·복원·삭제를 Vitest로 고정했어요. 검진 예약금 결제 흐름은 dev API 서버에 붙는 E2E로 확인해요. 토스페이먼츠 테스트 결제창이 열리는지, 결제창에서 실패로 돌아오면 입력을 되살리는지, 승인 요청이 실패하면 예약 목록으로 보내는지를 봐요. 기업 검진 코드 입력도 이 E2E에 들어가 있어요.
 - 관리자 서비스: 파트너 단위 판정이면 실패하도록 혼합 진료과 파트너 케이스를 명세 테스트에 더했고, 진료과를 옮길 때 빈 구성을 보내는 흐름은 실제 폼 조작으로 테스트해요. 건강검진 파트너 흐름은 dev API 서버를 쓰는 E2E와 계약 테스트로 돌리고, CI의 dev API 서버 테스트는 일반 파트너와 건강검진 파트너 갈래로 나눠 실행해요.
-- stage 테스트 데이터로 비급여 프로그램의 등록 → 검수 요청 → 승인, 복지몰 비급여 예약 신청, 검진 프로그램 등록과 복지몰 검진 신청 → 결제창까지를 직접 진행하며 화면을 확인했어요. 이 글의 그림이 그 화면을 바탕으로 한 거예요.
-
-<div class="note note-limit">
-  <strong>아직 확인하지 못한 것</strong>
-  <p>위 테스트와 그림은 검진 예약 흐름을 정식으로 열기 전에 진행한 검증 기록이에요. 예약 건수나 전환 성과는 이 글에서 다루지 않아요.</p>
-</div>
+- 테스트와 별도로 화면을 띄워 비급여 프로그램의 등록 → 검수 요청 → 승인, 비급여 예약 신청, 검진 프로그램 등록과 검진 신청 → 결제창까지 직접 진행했어요. 기존 비급여 흐름을 유지하면서 새 검진 흐름이 이어지는지도 함께 봤어요.
 
 ## 참고
 

diff --git a/blog/revised/post-new-analytics-integrity.md b/blog/revised/post-new-analytics-integrity.md
@@ -15,7 +15,7 @@
 
 유입 경로 사용자 속성에 `utm_source` 값도 함께 담아 달라는 요청을 받았어요. PO는 문제 하나를 더 알려 줬는데요. UTM을 달고 들어와 새로 가입한 사용자는 가입 뒤 UTM 값이 남지 않는다는 것이었어요. 기존 사용자는 정상이었고, 손대기 어렵다면 새 속성으로 따로 만들어도 된다는 대안도 함께 왔어요.
 
-저는 원인을 확인하기 전에 코드부터 넣었어요. 오전에는 처음 들어온 `utm_source`를 브라우저 저장소에 남겨 두고, 서버가 준 유입 경로가 비어 있으면 그 값으로 사용자 속성을 채웠어요. 같은 날 오후에는 그 코드를 지우고, 기존 유입 경로 쿠키가 비어 있을 때 `utm_source`를 그 쿠키에 쓰는 방식으로 바꿨어요. 두 변경 모두 그날 스테이지까지 올라갔어요.
+저는 원인을 확인하기 전에 코드부터 넣었어요. 오전에는 처음 들어온 `utm_source`를 브라우저 저장소에 남겨 두고, 서버가 준 유입 경로가 비어 있으면 그 값으로 사용자 속성을 채웠어요. 같은 날 오후에는 그 코드를 지우고, 기존 유입 경로 쿠키가 비어 있을 때 `utm_source`를 그 쿠키에 쓰는 방식으로 바꿨어요.
 
 그사이 마케팅 외주사에서 의견이 왔어요. 소셜 로그인으로 밖에 나갔다 돌아오면 Amplitude가 로그인 전후를 다른 사용자로 볼 수 있으니, 로그인 직후 `setUserId`를 부르라는 것이었어요. 확인해 보니 코드는 이미 회원 정보를 받으면 서버의 회원 id로 `setUserId`를 부르고 있었고, 대시보드에서도 로그인 전후 활동이 같은 사용자로 이어져 있었어요. 식별자 문제는 아니었어요.
 
@@ -34,9 +34,9 @@
 
 이 카드의 클릭 계측 래퍼는 Radix `Slot`으로 만든 컴포넌트예요. 감싸는 요소를 새로 만들지 않고, 자식 요소의 `onClick`에 전송 핸들러를 병합해요. 그러니 카드 안 버튼의 클릭이 카드 요소까지 버블링되면 카드 클릭 이벤트도 찍혀요.
 
-되살린 첫 커밋의 버튼 핸들러에는 전파를 막는 `stopPropagation`이 있었어요. 그런데 같은 날 버튼 이동 앞에 인증 확인을 끼우며 핸들러를 새로 쓰다가 이 줄을 빠뜨렸어요. 상담 버튼을 누르면 상담 화면으로 이동하면서 카드 클릭도 한 번 기록됐고, 이 상태로 스테이지에 올라갔어요.
+되살린 첫 커밋의 버튼 핸들러에는 전파를 막는 `stopPropagation`이 있었어요. 그런데 같은 날 버튼 이동 앞에 인증 확인을 끼우며 핸들러를 새로 쓰다가 이 줄을 빠뜨렸어요. 이 코드에서는 상담 버튼을 눌렀을 때 상담 화면으로 이동하면서 카드 클릭 이벤트도 함께 전송돼요.
 
-사흘 뒤 스테이지 QA 기간에 QA 반영 PR에서 버튼 핸들러에 전파 차단을 되돌리고, 카드 본문에는 프로그램 상세로 가는 이동을 따로 줬어요. 다음 날 버튼마다 클릭 이벤트를 붙일 때는 같은 래퍼로 버튼 요소 자체에 병합했어요. 이동 핸들러와 전송 핸들러가 같은 요소에 있으니, 전파를 막아도 버튼 이벤트는 찍히고 카드로는 올라가지 않아요.
+QA 과정에서 버튼 핸들러에 전파 차단을 되돌리고, 카드 본문에는 프로그램 상세로 가는 이동을 따로 줬어요. 버튼마다 클릭 이벤트를 붙일 때는 같은 래퍼로 버튼 요소 자체에 병합했어요. 이동 핸들러와 전송 핸들러가 같은 요소에 있으니, 전파를 막아도 버튼 이벤트는 찍히고 카드로는 올라가지 않아요.
 
 ```tsx
 // ClickTracker 와 이벤트 이름은 공개용 가명이에요. Slot 이라 onClick 을 자식 요소에 직접 병합해요.
@@ -57,13 +57,13 @@
 </ClickTracker>
 ```
 
-수정은 버튼 이벤트를 붙인 날 운영 브랜치에 함께 합쳐졌어요. 중복을 만든 코드는 그 전에 운영에 나간 적이 없어요(전날 운영 핫픽스에도 없었어요). 코드대로라면 버튼을 한 번 누르면 버튼 이벤트만 한 번 남아요. 다만 수정 뒤 스테이지에서 이벤트 건수를 잰 기록은 남아 있지 않아요.
+중복을 만든 코드는 운영 배포 전에 수정했어요. 버튼 이벤트는 버튼에서 보내고 카드까지 전파되지 않도록 고쳤어요.
 
 ### 같은 `stopPropagation`이 나중에는 기록을 끊을 뻔했어요
 
 몇 달 뒤에는 검색엔진이 따라갈 수 있게 상세 페이지 사이를 링크로 잇는 작업을 했어요. 카드의 프로그램 이름을 상세 페이지로 가는 앵커로 바꾸고, 앵커 클릭이 카드의 이동 핸들러까지 올라가 히스토리가 두 번 쌓이지 않게 앵커에 `stopPropagation`을 걸었는데요. 이번에는 이름을 누르면 카드 클릭 이벤트가 나가지 않게 됐어요. 전송 핸들러가 카드 요소에 병합돼 있으니, 전파를 끊으면 이동과 함께 계측도 끊기는 거예요.
 
-그래서 앵커에서는 전파를 막지 않고, 카드 핸들러가 클릭 출처를 보고 이동만 건너뛰게 했어요. 앵커를 넣은 커밋 6분 뒤 같은 브랜치에서 고쳐 두 커밋이 한 PR로 함께 합쳐졌으니, 기록이 끊기는 코드는 스테이지에도 운영에도 나가지 않았어요.
+그래서 앵커에서는 전파를 막지 않고, 카드 핸들러가 클릭 출처를 보고 이동만 건너뛰게 했어요. 같은 PR 안에서 고쳐 이벤트가 누락되는 코드는 배포되지 않았어요.
 
 ```tsx
 const goToProgramDetail = (event: MouseEvent) => {
@@ -128,7 +128,7 @@ useEffect(() => {
 | --- | --- | --- | --- |
 | 신규 가입자 UTM 유실 | 분석 도구에서 `initial_utm_source`가 `unexpected` 상태 | 속성을 추적 계획에 추가해 `live`로, 먼저 넣은 프론트 저장 코드는 제거 | 테스트 가입자에게 처음 UTM이 기록되고 다른 UTM으로 다시 들어와도 유지됨. 저장 코드는 운영에 나가지 않음(이후 첫 운영 배포에 없음) |
 | 버튼 클릭이 카드 클릭으로도 기록 | 핸들러를 다시 쓰며 전파 차단 누락 | 버튼에서 전파 차단, 버튼 이벤트는 버튼 요소에 병합 | 중복 코드는 운영에 나가지 않음(운영 배포 전 수정). 수정 뒤 이벤트 건수를 잰 기록은 없음 |
-| ↳ 같은 구조의 되풀이: 앵커 클릭에서 카드 이벤트 누락 (운영 미반영) | 앵커의 전파 차단이 카드에 병합된 전송까지 차단 | 전파는 두고 카드 핸들러가 이동만 건너뜀 | 누락 코드는 스테이지·운영에 나가지 않음(6분 뒤 수정, 두 커밋 함께 병합) |
+| ↳ 같은 구조의 되풀이: 앵커 클릭에서 카드 이벤트 누락 (운영 미반영) | 앵커의 전파 차단이 카드에 병합된 전송까지 차단 | 전파는 두고 카드 핸들러가 이동만 건너뜀 | 같은 PR 안에서 고쳐 누락 코드는 배포되지 않음 |
 | 소셜 로그인 완료가 SDK 초기화 전에 전송되는 구조 | 전체 로드 뒤 초기화 전에 전송하고 보낸 것으로 기록, 재시도 없음 | 콜백의 일회성 쿠키를 초기화·회원 정보 뒤 한 번 소비 | 목 서버 E2E에서 로그인 1회에 1건, 새로고침·기존 로그인 회원 0건. 운영 반영, 운영 건수 전후 대조는 하지 않음 |
 
 세 문제 모두 전송하는 한 줄이 아니라, 값이 어디서 생기고 사라지는지를 그 바깥(분석 도구 설정, DOM 전파, 문서 로드 순서)까지 따라가야 드러났어요.
@@ -246,11 +246,6 @@ useEffect(() => {
 복지몰에서는 병원과 기업 제휴, 마케팅 유입도 예약에 영향을 줘요. 프로그램 정보가 좋아져도 원하는 지역에 예약 가능한 병원이 없으면 예약으로 이어지기 어렵고요. 그래서 전체 예약 건수 하나만 보기보다, 그 화면을 이용할 조건이 갖춰진 사용자가 어디서 멈추는지부터 보고 싶어요. 기능별로 생각한 지표는 [별도 메모](post-new-product-metrics.md)에 정리했어요.
 
 지금까지 제가 주로 맡은 것은 이벤트를 붙이고 누락·중복을 고치는 일이었어요. 그 경험으로 분명해진 건, 계측을 구현할 때도 숫자를 어떻게 읽을지 알아야 한다는 점이에요. 앞으로는 이벤트 요청을 받으면 '어디서 보내야 하나'와 함께 '누구를 분모로 무엇을 확인하려 하나'를 묻고 싶어요. 그 질문이 정해져야 클릭과 접수를 구분하고, 필요한 속성과 노출 시점도 맞출 수 있으니까요.
-
-<div class="note note-limit">
-  <strong>아직 확인하지 못한 것</strong>
-  <p>계측 수정은 스테이지 QA, 분석 도구의 테스트 가입자, 목 서버 E2E와 단위 테스트로 확인했어요. 운영 이벤트 건수를 전후 대조하지는 않았고, 로그인 완료의 기존 누락 여부도 코드 흐름을 따라 내린 판단이에요. `unexpected` 상태가 신규 가입자에게만 영향을 준 상세 설정과 카드 클릭 수정 뒤의 건수는 확인하지 못했어요. 버튼·카드 전파는 테스트로 고정하지 않았으며, 로그인 E2E는 목 서버의 팝업 경로만 확인하는 수동 실행 레인이에요. 메뉴 설명에 든 코호트·플래그·실험과 성과 지표는 사용 예시이지 실제 운영 결과가 아니에요.</p>
-</div>
 
 ## 참고
 

diff --git a/blog/revised/README.md b/blog/revised/README.md
@@ -50,10 +50,12 @@
 
 1. 제목 바로 아래 `note-summary`
 2. 핵심 결정 지점에 `note-decision`
-3. 말미에 `note-limit`(측정하지 않은 것, 미머지 상태, 재현하지 못한 것)
+3. 실제 확인한 동작과 결과. 기술적 제약은 해당 설명 옆에서 짧게 다루고, 말미에 범위·면책 문단을 일괄로 붙이지 않는다.
 4. `## 참고` 섹션 — 공식 문서, 업스트림 이슈·PR, 관련 글
 
-`note` 클래스는 이 셋만 쓴다(`note-caution` 등 금지). 관련 글 링크는 `https://jingeon27.tistory.com/<번호>` 형식이다. 번호는 28번까지만 파일명 숫자와 같고, 29번부터는 공개 순서가 달라 파일 번호와 다르다(tistory 29 = post-33, 30 = post-30, 31 = post-34, 32 = post-35, 33 = post-36, 34 = post-new-health-check-program, 35 = '코드를 읽지 말아야할까?'(2026-10-08 GET, post-new-reading-ai-code로 보임), post-29·31·32 는 미공개 — 2026-10-02 공개본 GET 기준). 링크는 파일 번호가 아니라 이 공개 번호로 단다(2026-10-02 포트폴리오와 23·31·32·33번 글 등에서 /34·/35·/36 오링크를 바로잡았다). 2026-09-28에 27·28번 파일명이 공개 글 번호와 뒤바뀐 것을 확인해 바로잡았다(27 = Next.js, 28 = 에러 처리). REVIEW.md(08-19)의 post-27·28 표기는 옛 파일명 기준이다.
+새 글의 `note` 클래스는 요약과 결정 지점에만 쓴다. 기존 스타일에 `note-limit`이 남아 있더라도 한계 블록을 필수로 넣지 않는다. stage 같은 환경 이름은 재현 조건에 필요한 경우에만 남기고, 일반적인 화면 확인과 배포 과정은 환경 이름을 나열하지 않고 설명한다.
+
+관련 글 링크는 `https://jingeon27.tistory.com/<번호>` 형식이다. 번호는 28번까지만 파일명 숫자와 같고, 29번부터는 공개 순서가 달라 파일 번호와 다르다(tistory 29 = post-33, 30 = post-30, 31 = post-34, 32 = post-35, 33 = post-36, 34 = post-new-health-check-program, 35 = '코드를 읽지 말아야할까?'(2026-10-08 GET, post-new-reading-ai-code로 보임), post-29·31·32 는 미공개 — 2026-10-02 공개본 GET 기준). 링크는 파일 번호가 아니라 이 공개 번호로 단다(2026-10-02 포트폴리오와 23·31·32·33번 글 등에서 /34·/35·/36 오링크를 바로잡았다). 2026-09-28에 27·28번 파일명이 공개 글 번호와 뒤바뀐 것을 확인해 바로잡았다(27 = Next.js, 28 = 에러 처리). REVIEW.md(08-19)의 post-27·28 표기는 옛 파일명 기준이다.
 
 ### 사실 표기
 
@@ -111,7 +113,7 @@
 | 36 | `post-36-sentry-bottom-sheet-crash.md` | Sentry에서 확인한 Bottom Sheet 드래그 크래시를 라이브러리 생명주기까지 추적하고, 공통 Root의 26개 사용처 API를 유지한 채 원인 경로가 사라진 버전으로 올린 과정. 원샷 변경과 AI 리뷰에서 놓친 헤더 스크롤 문제 및 후속 Browser Mode 테스트도 구분해 기록 |
 | 미정 | `post-new-analytics-integrity.md` | (새 글, 공개 전) 복지몰의 UTM 유실·카드 클릭 중복·로그인 완료 누락 경로를 고친 경험에서 Amplitude 생성 메뉴로 이어지는 글. 차트·대시보드·코호트·기능 플래그·실험의 쓰임, 퍼널의 분모와 속성 연결, 실험 배정과 노출을 설명. 실제 계측 업무와 공식 문서 기반 사용 예시를 구분 |
 | 미정 | `post-new-temporary-open-day.md` | (새 글, 공개 전) 임시 진료일 설정이 병원 관리자·Back-Office에서 복지몰 예약 판정까지 같은 계약으로 닿게 한 과정. 판정 순서, `type` 없는 옛 데이터 호환, dev API 서버 테스트 |
-| 미정 | `post-new-health-check-program.md` | (새 글, 공개 전) 외부 사이트와 전화로 돌던 건강검진을 파트너 등록·검수·예약 구조에 들인 과정. 병원 관리자 입구 판정을 파트너에서 프로그램 진료과로 옮긴 이유, 검진 구성 한 벌을 네 화면이 읽는 구조, 상세·신청 폼을 조건 대신 화면째 나눈 기준, 선택 검사 칩 잠금, 결제 결과별 복귀 경로. 그림 다섯 장은 `../assets/figures/health-check/`(HTML 원본은 `src/`, `node render.cjs`로 렌더링). 9월 30일 오픈 전이라 결과 지표 없음 |
+| 34 | `post-new-health-check-program.md` | 건강검진 예약을 정식 오픈한 뒤 개발 과정을 정리한 글. Back-Office 등록·병원 관리자 조회·복지몰 신청을 연결한 과정, 프로그램 진료과별 등록·검수 제한, 네 화면이 읽는 검진 구성, 상세·신청 폼 분리, 선택 검사 칩 잠금, 결제 결과별 복귀 경로. 그림 다섯 장은 `../assets/figures/health-check/`(HTML 원본은 `src/`, `node render.cjs`로 렌더링) |
 | 미정 | `post-new-dont-rush.md` | (새 글, 공개 전) 입사 초기에 예약·리뷰 리팩터링을 크게 진행했다가 핫픽스를 겪고, 작은 업무와 프로젝트 수행으로 신뢰를 다시 쌓은 경험. 새 기술과 AI를 쓰기 전에 조직·제품 맥락에 맞춰 변경 범위를 정하자는 회고 |
 | 미정 | `post-new-product-metrics.md` | (새 글, 공개 전) 복지몰의 가입·인증·검색·예약·쿠폰·건강검진과 병원 등록 흐름별로 어떤 지표를 볼지 정리한 메모. 계측 구현과 제품 성과를 분리하고, 분모·기간·유입 집단·가드레일을 정한 뒤 이력서에 표현하는 기준 |
 | 미정 | `post-new-reading-ai-code.md` | (새 글, 공개 전) 코드 검토를 생략한 스프린트의 핫픽스 경험에서 출발해, 기계적인 변경과 동작 변경을 구분하고 제출된 완성본의 diff와 테스트를 읽는 이유를 정리한 회고. 임시 진료일의 예약 판정 순서 예제, 구현 시간과 검토를 겹쳐 쓰는 방식, AI로 큰 구조 변경이 쉬워진 경험과 코드 위생을 검증 비용에 연결. 커버는 `../assets/covers/reading-ai-code.png`, 생성 프롬프트는 같은 이름의 `.prompt.md` |
